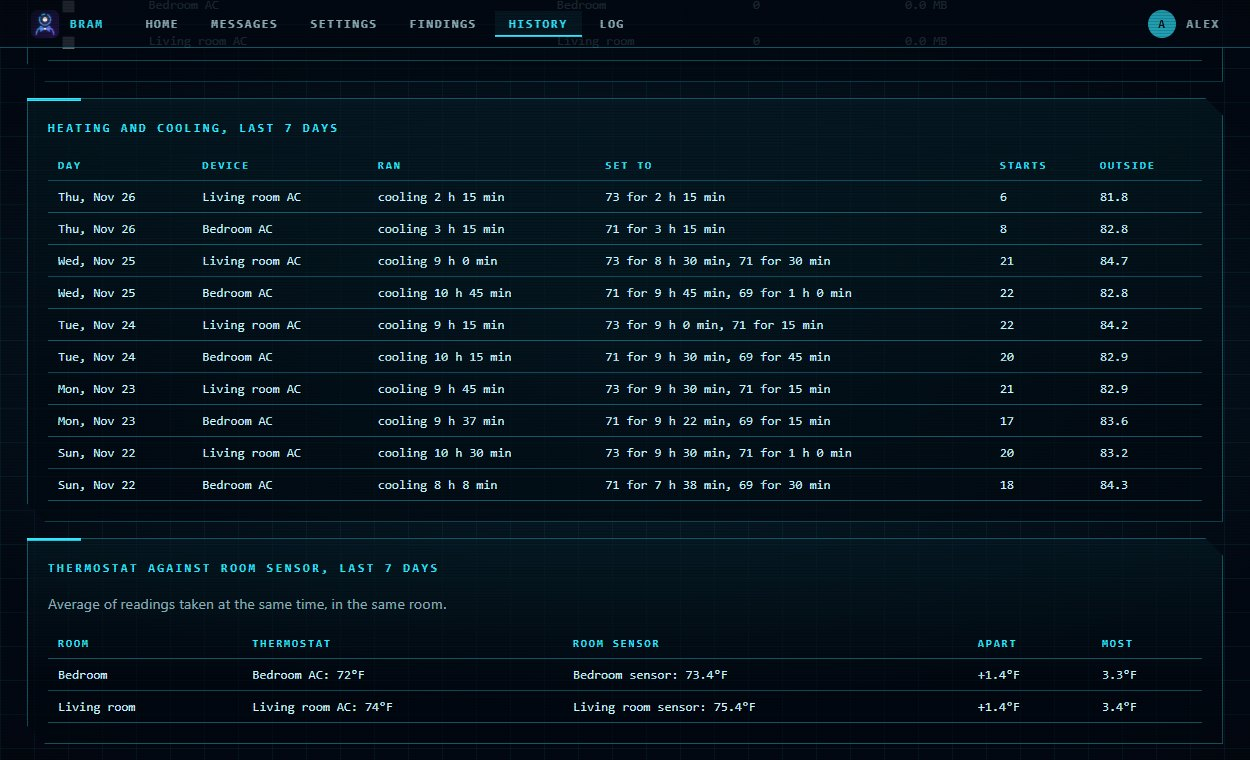
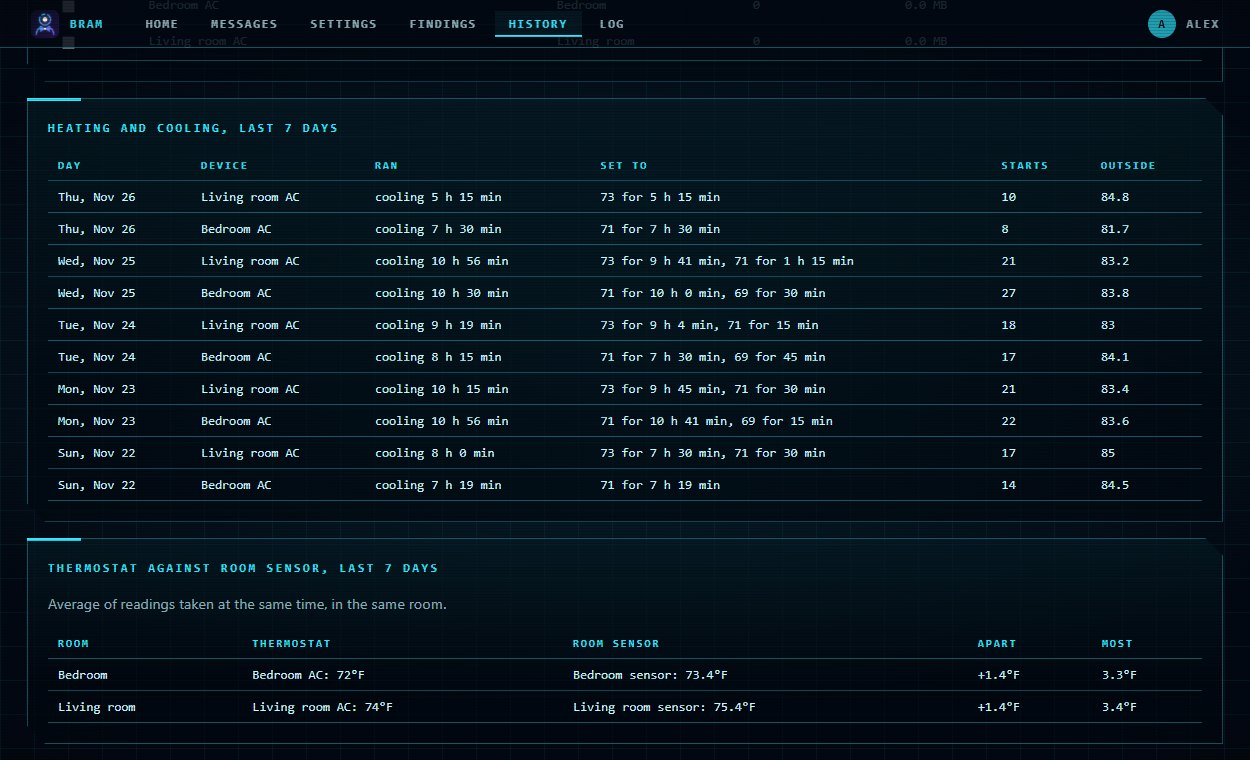
0.32.3: printers opt-in, flat side screens, even dock

diff --git a/server/bram/static/deck.css b/server/bram/static/deck.css
@@ -255,7 +255,8 @@ body.command { --cyan: var(--hud); --violet: var(--hud); --night: rgb(0 4 10 / .
 
 /* --- screens that fit any height: each side scrolls when it has more than fits --- */
 .side { overflow-y: auto; overflow-x: hidden; scrollbar-width: thin; scrollbar-color: var(--hud-dim) transparent; padding: 0 0 8px; }
-#hud-left { left: 10px; padding-left: 16px; }
+#hud-left { left: 10px; padding-left: 16px; direction: rtl; }
+#hud-left > * { direction: ltr; }
 #hud-right { right: 10px; padding-right: 16px; }
 #hud-left::before { left: 2px; }
 #hud-right::before { right: 2px; }
@@ -267,3 +268,13 @@ body.command { --cyan: var(--hud); --violet: var(--hud); --night: rgb(0 4 10 / .
 #slot-chat #aloud-box[hidden] { display: none; }
 #slot-chat #aloud-box:has(:checked) { border-style: solid; border-color: var(--hud); color: var(--hud); }
 .side { padding-bottom: 36px; mask-image: linear-gradient(#000 calc(100% - 36px), transparent); }
+/* 0.32.3: flat, readable side screens and an even dock. */
+#hud-left .glass, #hud-right .glass { transform: none; }
+#hud .side .glass:hover, #hud .side .glass:focus-within { box-shadow: 0 0 24px color-mix(in srgb, var(--hud) 30%, transparent); }
+.side { gap: 14px; }
+.side .glass { padding: 28px 16px 12px; }
+#hud #chat-send, #slot-chat #aloud-box, #dock > a { width: 66px; height: 66px; }
+#slot-chat #aloud-box { position: relative; gap: 2px; border: 2px solid var(--hud-line); background: rgb(0 10 22 / .8); color: var(--hud-text); opacity: .75; font: 700 .56rem var(--mono); letter-spacing: .08em; line-height: 1.2; }
+#slot-chat #aloud-box input { position: absolute; opacity: 0; width: 1px; height: 1px; margin: 0; }
+#slot-chat #aloud-box:has(:checked) { opacity: 1; border-color: var(--hud); background: radial-gradient(circle, color-mix(in srgb, var(--hud) 35%, transparent), rgb(0 10 22 / .85) 70%); box-shadow: 0 0 16px color-mix(in srgb, var(--hud) 40%, transparent); }
+#slot-chat #aloud-box:has(:focus-visible) { outline: 2px solid var(--hud-warn); outline-offset: 3px; }

diff --git a/server/bram/static/app.js b/server/bram/static/app.js
@@ -832,7 +832,7 @@ function needActs(need) {
 
 // Printers only while they print, or when one has a problem.
 function showPrinters(list) {
-  const shown = list.filter((p) => ["printing", "paused", "failed", "failing"].includes(p.state) || p.problem);
+  const shown = list.filter((p) => ["printing", "paused"].includes(p.state));
   $("printers-pane").hidden = !shown.length;
   $("printers-count").textContent = shown.length > 1 ? String(shown.length) : "";
   $("hud-printers").replaceChildren(...shown.map((p) => {

diff --git a/custom_components/bram/config_flow.py b/custom_components/bram/config_flow.py
@@ -26,7 +26,7 @@ from .const import (
     CONF_LEARN,
     CONF_PHONES,
     CONF_PRINTERS,
-    CONF_PRINTERS_OFF,
+    CONF_PRINTERS_CHOSEN,
     CONF_PROBLEM_WATCH,
     CONF_PROBLEMS,
     CONF_QUIET_FROM,
@@ -267,16 +267,17 @@ class BramOptionsFlow(OptionsFlowWithReload):
         found = {p.name: p.id for p in printers.find(self.hass)}
         if not found:
             return self.async_abort(reason="no_printers")
-        off = options.get(CONF_PRINTERS_OFF, [])
+        chosen = options.get(CONF_PRINTERS_CHOSEN, [])
         if user_input is not None:
             # A printer missing right now keeps its choice.
-            kept = [p for p in off if p not in found.values()]
+            kept = [p for p in chosen if p not in found.values()]
+            options.pop("printers_off", None)
             return self.async_create_entry(data={
                 **options, CONF_PRINTERS: user_input.pop(CONF_PRINTERS),
-                CONF_PRINTERS_OFF: kept + [found[n] for n, on in user_input.items() if not on]})
+                CONF_PRINTERS_CHOSEN: kept + [found[n] for n, on in user_input.items() if on]})
         return self.async_show_form(step_id="printers", data_schema=vol.Schema({
             vol.Required(CONF_PRINTERS, default=options.get(CONF_PRINTERS, False)): bool,
-            **{vol.Required(name, default=device not in off): bool
+            **{vol.Required(name, default=device in chosen): bool
                for name, device in found.items()}}))
 
     async def async_step_learn(self, user_input: dict[str, Any] | None = None) -> ConfigFlowResult:

diff --git a/custom_components/bram/printer_watch.py b/custom_components/bram/printer_watch.py
@@ -19,7 +19,7 @@ from homeassistant.util import dt as dt_util
 from .const import (
     CONF_PHONES,
     CONF_PRINTERS,
-    CONF_PRINTERS_OFF,
+    CONF_PRINTERS_CHOSEN,
     CONF_QUIET_FROM,
     CONF_QUIET_TO,
     DOMAIN,
@@ -56,7 +56,8 @@ class PrinterWatch:
         self._teller = teller or Teller(hass, entry)
         self._on: bool = entry.options.get(CONF_PRINTERS, False)
         self._phones: list[str] = entry.options.get(CONF_PHONES, [])
-        self._off: list[str] = entry.options.get(CONF_PRINTERS_OFF, [])
+        # Only a printer the owner switched on is watched or shown.
+        self._chosen: list[str] = entry.options.get(CONF_PRINTERS_CHOSEN, [])
         self._quiet = (entry.options.get(CONF_QUIET_FROM), entry.options.get(CONF_QUIET_TO))
         self._store: Store[dict[str, Any]] = Store(hass, 1, f"{DOMAIN}.{entry.entry_id}.printers")
         self._jobs: dict[str, dict[str, Any]] = {}
@@ -107,7 +108,7 @@ class PrinterWatch:
             now = dt_util.utcnow().timestamp()
             items = []
             for printer in find(self._hass):
-                if printer.id in self._off:
+                if printer.id not in self._chosen:
                     continue
                 says = read(self._hass, printer)
                 self._job(printer, says, now)

diff --git a/ha_tests/test_printers.py b/ha_tests/test_printers.py
@@ -53,7 +53,8 @@ class Env:
                 device_id=device.id, config_entry=self.entry).entity_id
         self.items, self.notes = [], []
         self.watch = PrinterWatch(hass, MockConfigEntry(domain="bram", options={
-            "printers": True, "phones": ["mobile_app_phone"], **options}),
+            "printers": True, "phones": ["mobile_app_phone"],
+            "printers_chosen": [device.id], **options}),
             lambda items: self.items.append(items) or True, lambda *a: self.notes.append(a))
 
     def set(self, **values):
@@ -231,10 +232,9 @@ async def test_sent_to_the_server_when_it_changes(env):
     assert len(env.items) == 2 and env.items[-1][0]["state"] == "printing"
 
 
-async def test_a_printer_turned_off_is_not_watched(hass, freezer):
+async def test_a_printer_not_switched_on_is_not_watched(hass, freezer):
     env = Env(hass, freezer)
-    (printer,) = find(hass)
-    env.watch._off = [printer.id]
+    env.watch._chosen = []
     await env.run(status="printing", progress=50)
     await env.run(status="complete")
     assert env.items == [[]] and env.texts() == []

diff --git a/ha_tests/test_flow_printers.py b/ha_tests/test_flow_printers.py
@@ -21,7 +21,7 @@ async def test_each_printer_has_its_own_switch(hass):
 
 async def choose(hass):
     entry = MockConfigEntry(domain="bram", data={"host": "x", "port": 1}, options={
-        "entities": [], "printers_off": ["gone"]})
+        "entities": [], "printers_chosen": ["gone"], "printers_off": ["old"]})
     entry.add_to_hass(hass)
     flow = await hass.config_entries.options.async_init(entry.entry_id)
     done = await go(hass, flow["flow_id"], "printers")
@@ -40,4 +40,8 @@ async def choose(hass):
         form["flow_id"], {"printers": True, "Big": True, "Small": False})
     small = next(e.device_id for e in er.async_get(hass).entities.values()
                  if e.unique_id == "Small_print_state")
-    assert entry.options["printers"] and entry.options["printers_off"] == ["gone", small]
+    big = next(e.device_id for e in er.async_get(hass).entities.values()
+               if e.unique_id == "Big_print_state")
+    assert small != big
+    assert entry.options["printers"] and entry.options["printers_chosen"] == ["gone", big]
+    assert "printers_off" not in entry.options

diff --git a/custom_components/bram/const.py b/custom_components/bram/const.py
@@ -18,7 +18,7 @@ CONF_WEEKEND_FROM = "weekend_night_from"
 CONF_WEEKEND_TO = "weekend_night_to"
 CONF_SECURITY = "share_security"
 CONF_PRINTERS = "printers"
-CONF_PRINTERS_OFF = "printers_off"
+CONF_PRINTERS_CHOSEN = "printers_chosen"
 CONF_PROBLEM_WATCH = "problem_watch"
 CONF_SECURITY_WATCH = "security_watch"
 # What "yes" and "no" mean for each kind BRAM understands.

diff --git a/docs/home.md b/docs/home.md
@@ -6,14 +6,14 @@ In the middle is BRAM's brain, a knot of light threads. Your home's systems orbi
 
 Under the brain is what BRAM is saying, written out as it says it, and what it is doing now: **Watching**, **Listening**, **Thinking**, or **Speaking**. The ring around the brain moves with its voice. With [voice](voice.md) on, the ring follows the real sound, both when BRAM speaks and while you hold to talk.
 
-Screens down both sides each have a tab. They lean in toward the brain; point at one, or tab into it, and it turns flat so it is easy to read.
+Screens down both sides each have a tab. Point at one, or tab into it, and it lights up.
 
 | Screen | Shows |
 |---|---|
 | **Today** | The date and time |
 | **House** | Your rooms, taken from Home Assistant's areas. A room lights up when someone moves there, turns amber when a door or window in it is open, and shows who is in it |
 | **System** | How much BRAM can see, how much is shut and locked, nights learned, and messages sent today. Below that, each link to Home Assistant and your monitors, and why one is down |
-| **3D printers** | Only while a print is running or paused, or a printer has a problem: progress, time left, file, and nozzle, bed, and chamber temperatures against target. See [3D printers](printers.md) |
+| **3D printers** | Only while a print is running or paused: progress, time left, file, and nozzle, bed, and chamber temperatures against target. See [3D printers](printers.md) |
 | **Watching** | What is counting down: a door left open with the minutes until you are told, a print until it finishes, and when night starts. Each says why |
 | **Looking at** | The picture BRAM is reading. Until cameras come, it says there is nothing to look at |
 | **Climate** | Outside temperature, the last 24 hours inside and outside, and how long each thermostat has run today. Needs [Keep history](history.md) |

diff --git a/docs/printers.md b/docs/printers.md
@@ -1,6 +1,6 @@
 # 3D printers
 
-BRAM finds your printers by itself from the integration each one uses: Bambu Lab, Moonraker (Klipper), OctoPrint, PrusaLink, and others where they use the same names. Turn it on in **BRAM > Configure > 3D printers**, **Watching**, or **Quick setup**. **3D printers** has a switch for each printer found; turn off any you do not want watched. A new printer starts on.
+BRAM finds your printers by itself from the integration each one uses: Bambu Lab, Moonraker (Klipper), OctoPrint, PrusaLink, and others where they use the same names. Turn it on in **BRAM > Configure > 3D printers**, **Watching**, or **Quick setup**. **3D printers** has a switch for each printer found. Only the printers you switch on are watched, shown on Home, or mentioned; a new printer starts off.
 
 **BRAM only watches.** It cannot start, pause, stop, or heat anything. It is not a fire alarm.
 

diff --git a/CHANGELOG.md b/CHANGELOG.md
@@ -2,6 +2,13 @@
 
 ## Unreleased
 
+## 0.32.3
+
+- Home: the 3D printers screen shows only printers that are printing or paused. A printer whose integration is failing is still under Needs you.
+- Home: the left side's scroll bar is on its outer edge, away from the brain.
+- Home: the side screens sit flat instead of leaning in, so they are easier to read, and the dock's round buttons are all one size. Speak answers lights up when on, with no checkbox.
+- 3D printers: only the printers you switch on in **Configure > 3D printers** are watched, shown on Home, or mentioned. A printer starts off. **After updating, switch on the printers you want.**
+
 ## 0.32.2
 
 - Home: on a shorter screen, each side scrolls when its screens do not all fit, instead of running off the bottom.
